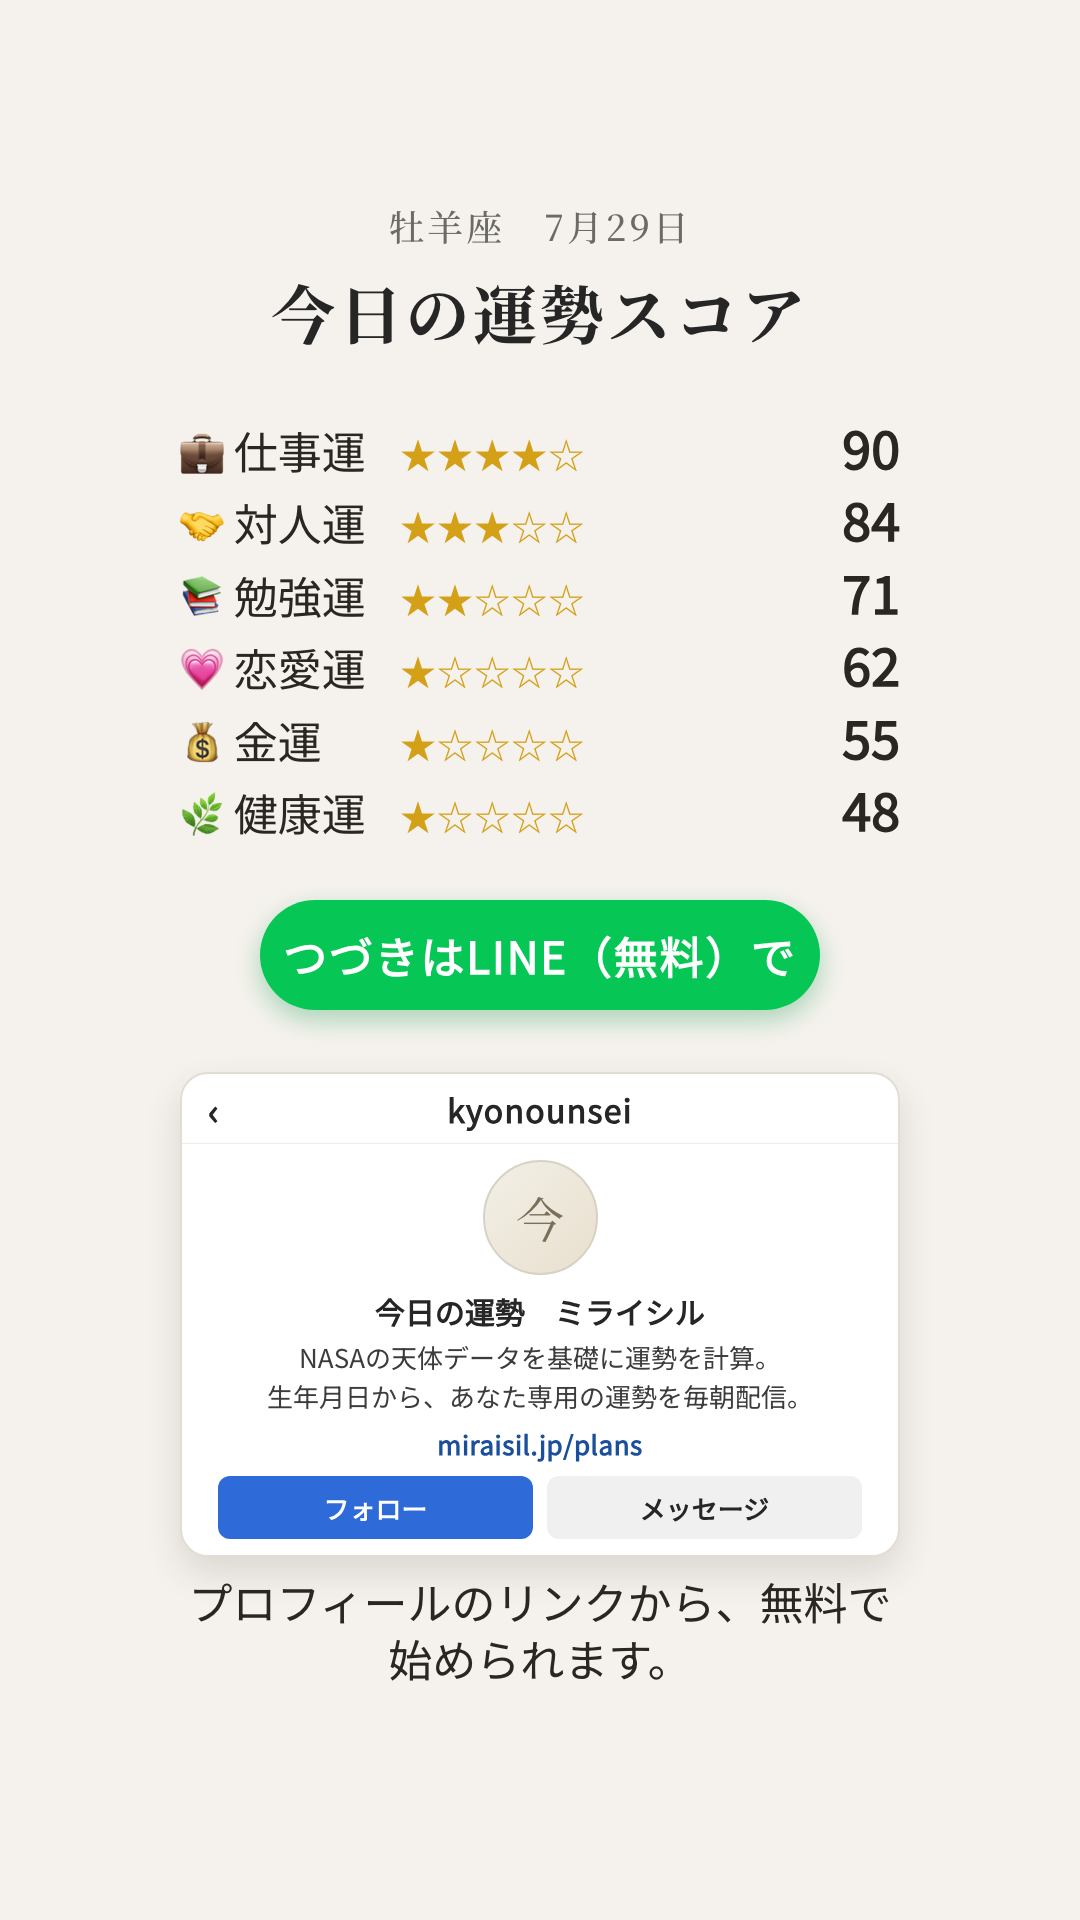
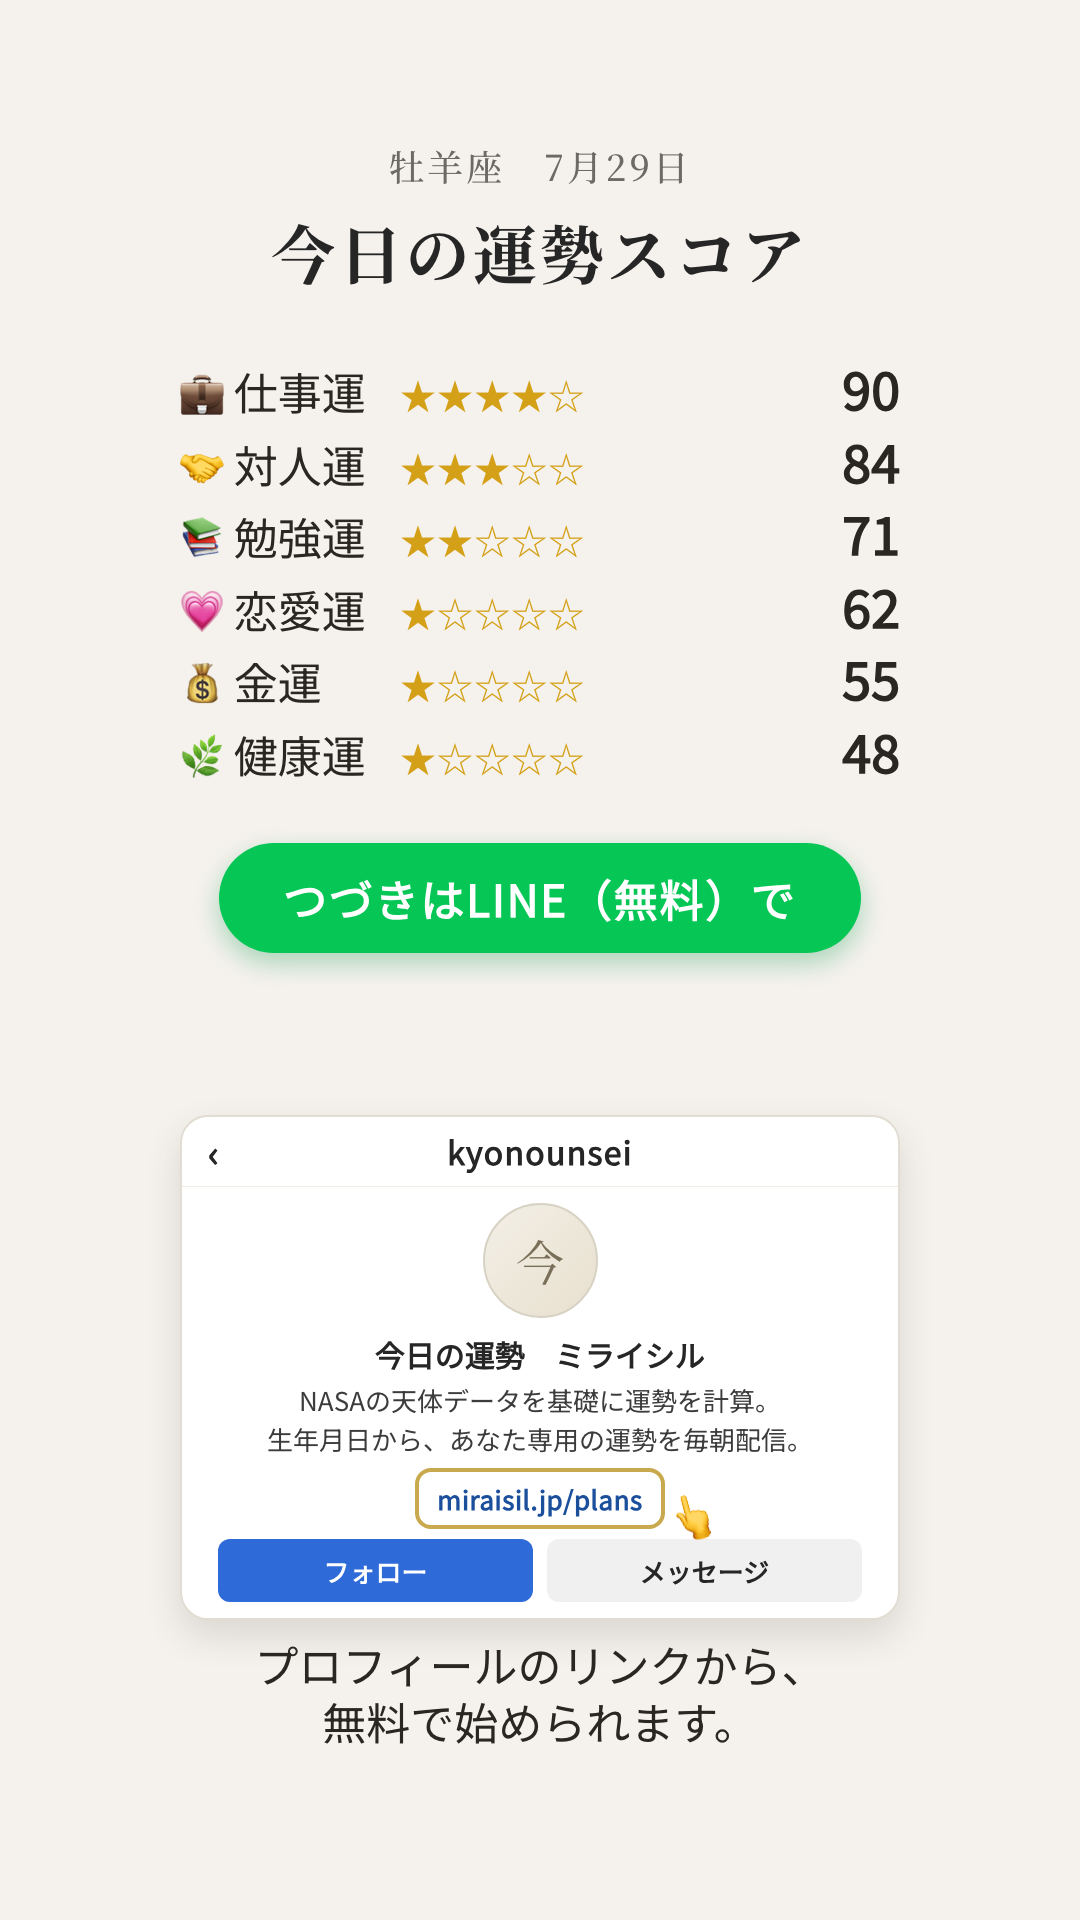
slide4-test: 配置域最大化・ボタン可変幅・指アイコン追加・案内文2行固定（第13弾）を牡羊座で確認

Changed region(s): [[0.1528, 0.0625, 0.8556, 0.9062], [0.7028, 0.125, 0.7333, 0.1875]]

diff --git a/slide4-test/index.html b/slide4-test/index.html
@@ -25,7 +25,7 @@
 <body>
 <div class="top-label">ストーリーズ Slide 4（今日の運勢スコア）確認 &middot; Internal Only</div>
 <div class="grid">
-  <div class="card"><img src="aries_slide4.png?v=1785329375" loading="lazy"><div class="label">牡羊座</div></div>
+  <div class="card"><img src="aries_slide4.png?v=1785330316" loading="lazy"><div class="label">牡羊座</div></div>
   <div class="card"><img src="taurus_slide4.png?v=1785165616" loading="lazy"><div class="label">牡牛座</div></div>
   <div class="card"><img src="gemini_slide4.png?v=1785165616" loading="lazy"><div class="label">双子座</div></div>
   <div class="card"><img src="cancer_slide4.png?v=1785165616" loading="lazy"><div class="label">蟹座</div></div>
